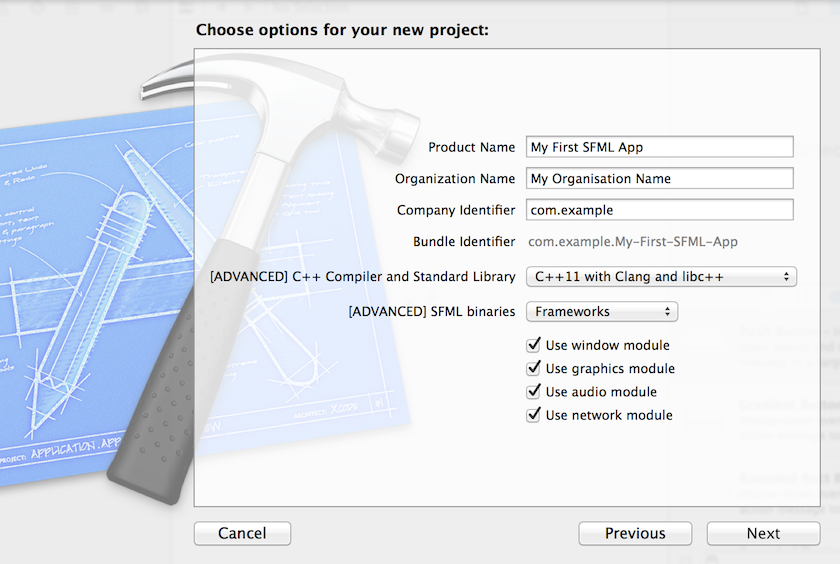
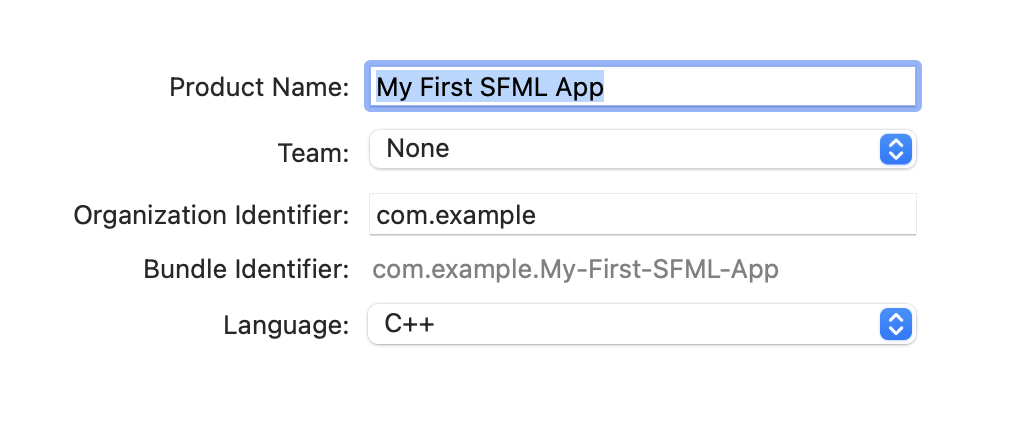
Update xcode tutorial to demonstrate project setup without templates

diff --git a/pages/tutorials/3.0/getting-started/macos.md b/pages/tutorials/3.0/getting-started/macos.md
@@ -2,100 +2,103 @@
 
 ## Introduction
 
-This is the first tutorial you should read if you're using SFML with Xcode -- and more generally if you are developing applications for macOS.
-It will show you how to install SFML, set up your IDE and compile a basic SFML program.
-More importantly, it will also show you how to make your applications ready "out of the box" for the end users.
+!!! note
+
+    The [CMake template](cmake.md) is the recommended way to get started with SFML, especially for iOS where SFML doesn't currently publish binaries
+
+This tutorial will show you how to install SFML, set up your IDE and compile a basic SFML program for **macOS**.
 
 You will see several external links in this document.
 They are meant for further reading on specific topics for those who are curious; reading them isn't necessary to follow this tutorial.
-
-!!! note
-
-    The [CMake template](cmake.md) is the recommended way to get started with SFML.
 
 ### System requirements
 
 All you need to create an SFML application is:
 
 - An Intel Mac with Catalina or later (10.15+) or an Apple Silicon Mac with Big Sur or later (11+)
-- [Xcode](https://developer.apple.com/xcode/ "Download Xcode")
+- [Xcode](https://developer.apple.com/xcode/ "Download Xcode") (Can also be installed via app store)
 - Clang and libc++ (which are shipped by default with Xcode).
-
-With recent versions of Xcode you also need to install the Command Line Tools from Xcode > Preferences > Downloads > Components.
-If you can't find the CLT there use `xcode-select --install` in a Terminal and follow on-screen instructions.
-
-### Binaries: dylib vs framework
-
-SFML is available in two formats on macOS.
-You have the _dylib_ libraries on the one hand and the _framework_ bundles on the other.
-
-- Dylib stands for dynamic library; this format is like _.so_ libraries on Linux.
-You can find more details in [this document](https://developer.apple.com/library/mac/#documentation/DeveloperTools/Conceptual/DynamicLibraries/ "Go to Apple's documentation about dylib").
-- Frameworks are fundamentally the same as dylibs, except that they can encapsulate external resources.
-Here is [the in-depth documentation](https://developer.apple.com/library/mac/#documentation/MacOSX/Conceptual/BPFrameworks/Frameworks.html "Go to Apple's documentation about framework").
-
-There is only one slight difference between these two kinds of libraries that you should be aware of while developing SFML applications: if you build SFML yourself, you can get dylib in both _release_ and _debug_ configurations.
-However, frameworks are only available in the _release_ configuration.
-In either case, it shouldn't be an issue since you should be using the _release_ version of SFML when you release your application anyway.
-That's why the macOS binaries on the [download page](../../../download/index.md "Go to the download page") are only available in the _release_ configuration.
-
-### Xcode templates
-
-SFML is provided with two templates for Xcode which allow you to create new application projects very quickly and easily: you can select which modules your application requires, whether you want to use SFML as dylib or as frameworks and whether to create an application bundle containing all its resources (making the installation process of your applications as easy as a simple drag-and-drop) or a classic binary.
-See below for more details.
 
 ## Installing SFML
 
-First of all you need to download the SFML SDK which is available on the [download page](../../../download/index.md "Go to the download page").
-Then, in order to start developing SFML applications, you have to install the following items:
+First of all you need to download the SFML SDK for your architecture which is available on the [download page](../../../download/index.md "Go to the download page"). 
+You can then unpack this installation wherever you like and make a note of the path to use during the following setup (indicated by `<sfml-install-path>`).
 
-- **Header files and libraries**  
-    SFML is available either as dylibs or as frameworks.
-    Only one type of binary is required although both can be installed simultaneously on the same system.
-    We recommend using the frameworks.
-    - _frameworks_  
-        Copy the content of Frameworks to `/Library/Frameworks`.
-    - _dylib_  
-        Copy the content of lib to `/usr/local/lib` and copy the content of include to `/usr/local/include`.
-- **Xcode templates**  
-    This feature is optional but we strongly recommend that you install it.
-    Copy the SFML directory from templates to `~/Library/Developer/Xcode/Templates` (create the folders if they don't exist yet).
+You can also install SFML from [brew](https://brew.sh) by running `brew install sfml`.
 
 ## Create your first SFML program
 
-We provide two templates for Xcode. SFML CLT generates a project for a classic terminal program whereas SFML App creates a project for an application bundle.
-We will use the latter here but they both work similarly.
-
-First select File > New Project... then choose SFML in the left column and double-click on SFML App.
+First select File > New Project... then Select the "Command line tool" template.
 
 ![Xcode template selection](osx-new-project.png "Xcode template selection")
 
 Now you can fill in the required fields as shown in the following screenshot.
-When you are done click next.
+When you are done click next and choose a folder location for your project.
 
 ![Xcode template form](osx-new-project-settings.png "Xcode template form")
 
-Your new project is now set to create an [application bundle ".app"](https://developer.apple.com/library/mac/#documentation/CoreFoundation/Conceptual/CFBundles/BundleTypes/BundleTypes.html "Go to Apple's documentation
-about application bundle").
+Now you have a basic project with a `main.cpp` file for your code. 
+You can replace the contents with this SFML code to draw a green circle:
 
-Now that your project is ready, let's see what is inside:
+```cpp
+#include <SFML/Graphics.hpp>
 
-![Content of the new project](osx-window.png "Content of the new project")
+int main()
+{
+    sf::RenderWindow window(sf::VideoMode({200, 200}), "SFML works!");
+    sf::CircleShape shape(100.f);
+    shape.setFillColor(sf::Color::Green);
 
-As you can see, there are already a few files in the project.
-There are three important kinds:
+    while (window.isOpen())
+    {
+        while (const std::optional event = window.pollEvent())
+        {
+            if (event->is<sf::Event::Closed>())
+                window.close();
+        }
 
-1. **Header & source files:** the project comes with a basic example in `main.cpp` and the helper function `std::string resourcePath(void);` in ResourcePath.hpp and ResourcePath.mm.
-    The purpose of this function, as illustrated in the provided example, is to provide a convenient way to access the Resources folder of your application bundle.
+        window.clear();
+        window.draw(shape);
+        window.display();
+    }
+}
+```
 
-    Please note that this function only works on macOS.
-    If you are planning to make your application work on other operating systems, you should implement your own version of this function on the operating systems in question.
-2. **Resource files:** the resources of the basic example are put in this folder and are automatically copied to your application bundle when you compile it.
+But currently it will not build, as we need to configure Xcode so it can find SFML's headers and libraries.
 
-    To add new resources to your project, simply drag and drop them into this folder and make sure that they are a member of your application target; i.e. the box under Target Membership in the utility area (cmd+alt+1) should be checked.
-3. **Products:** your application.
-    Simply press the Run button to test it.
+For header paths, select your project on the sidebar, go to the build settings tab and set the Header Search paths (filter can help find the setting) to the `include` folder in your unpacked SFML folder, e.g. `<sfml-install-path>/include` (or brew include folder if using brew, e.g. `/opt/homebrew/include`).
 
-The other files in the project are not very relevant for us here.
-Note that the SFML dependencies of your project are added to your application bundle in a similar in which the resources are added.
-This is done so that your application will run out of the box on another Mac without any prior installation of SFML or its dependencies.
+![Xcode header settings](osx-header-paths.png "Xcode header search path settings")
+
+For library paths, do the same for the Library Search path setting, using the `lib` folder in your unpacked SFML folder, .e.g `<sfml-install-path>/lib` (or brew lib folder if using brew, e.g. `/opt/homebrew/lib`).
+
+![Xcode lib settings](osx-library-paths.png "Xcode library search path settings")
+
+Now the configuration is different whether you decide to use the dynamic or static libraries.
+
+### Dynamic libraries
+
+To link libraries, Navigate to the "Build Phases" tab in your project settings, and under "Link Binary With Libraries" add SFML's libraries via `Add Other... -> Files`. For dynamic linking you want to select the files with the `dylib` extension.
+
+![Xcode dynamic link settings](osx-dynamic-link.png "Xcode dynamic link settings")
+
+Your project should now build successfully, but will fail at runtime as it can't load the libraries. To fix this you need to provide the lib folder in the runpath search paths setting.
+
+![Xcode runpath settings](osx-runpath.png "Xcode runpath settings")
+
+### Static libraries
+
+To use the static libraries, Navigate to the "Build Phases" tab in your project settings, and under "Link Binary With Libraries" add SFML's libraries via `Add Other... -> Files`, and the system frameworks SFML requires (which will show up in the default list), it should result in something like this:
+
+![Xcode static link settings](osx-static-link.png "Xcode static link settings")
+
+Finally, as SFML utilises Objective-C classes you must add the `-ObjC` flag to ensure they are linked correctly, that goes in the build settings under "Other Linker flags".
+
+![Xcode objc flag](osx-objc-flag.png "Xcode objc flag settings")
+
+## Running your program
+
+You should now be able to build and run your program via the button near the top left, or the `⌘ + R` shortcut.
+
+![Xcode result](osx-result.png "Xcode running program")
+
